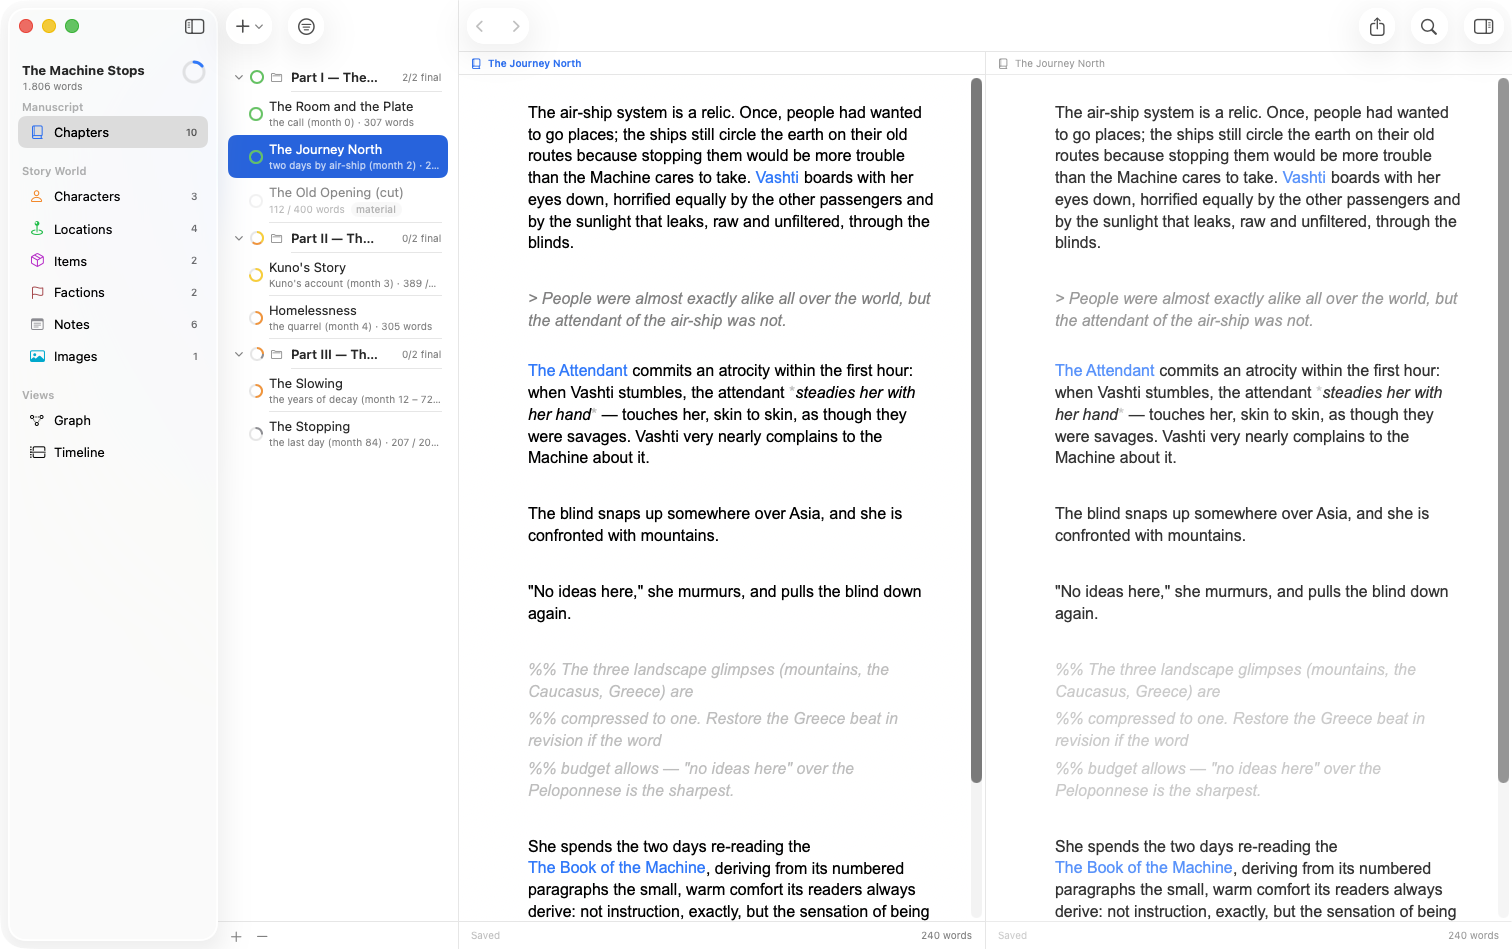
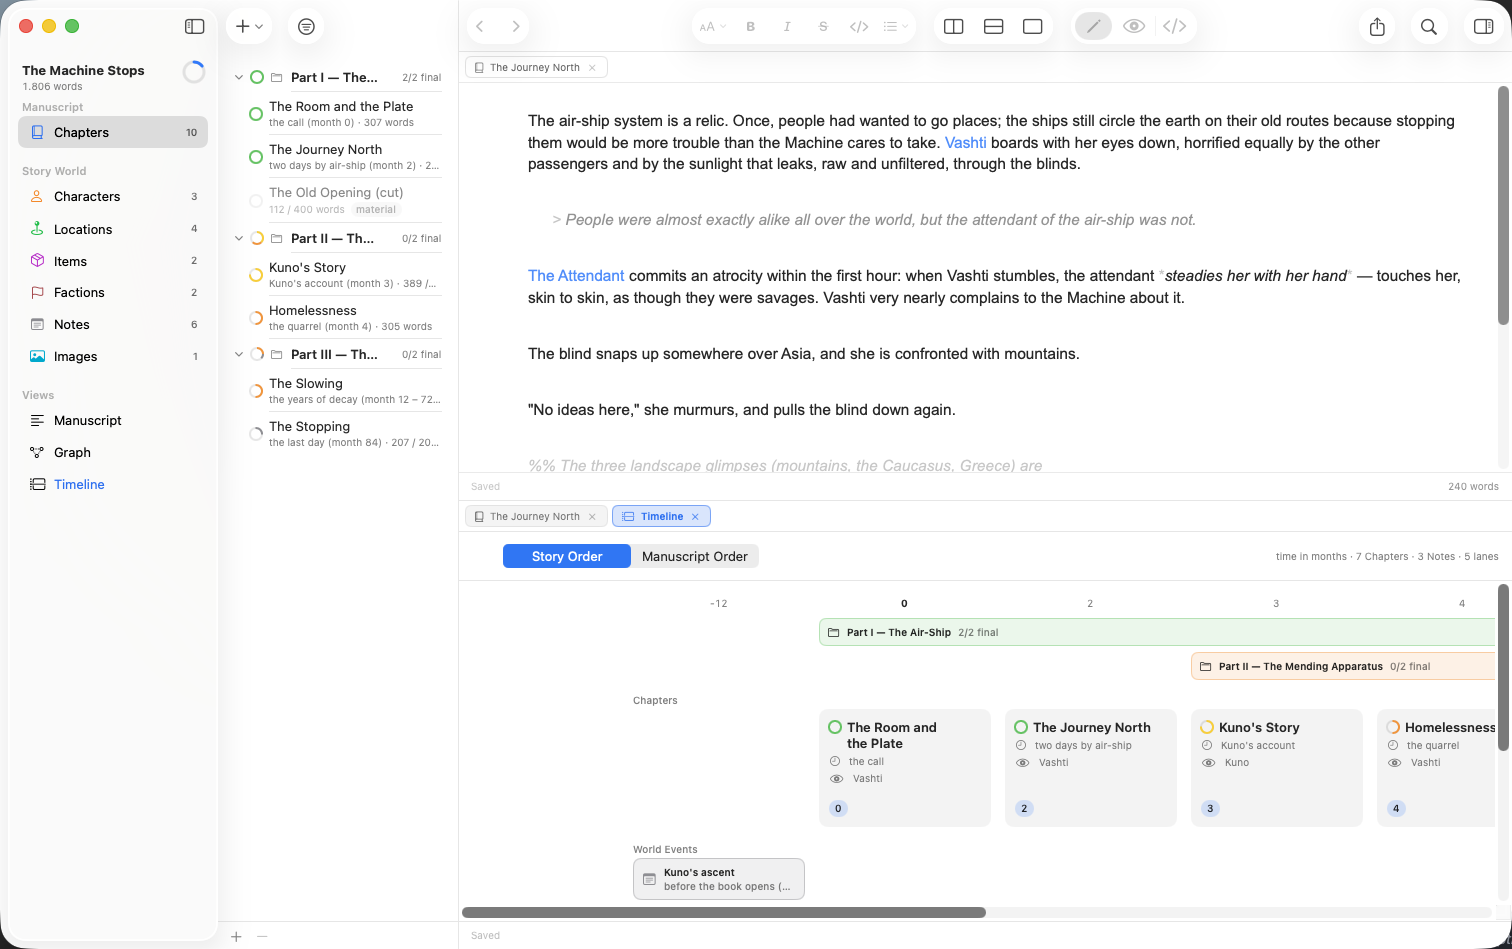
Document tabs, split panes, and view PDF export
Catches the docs up with the app: the split-view layout switcher is
gone, so "Three ways to lay out the editor" becomes "Tabs and split
editors" — provisional tabs, dragging tabs to reorder/move/split,
nesting splits, per-pane word count and view mode, the whole-book
views as tabs, and the remembered arrangement. The manuscript column
moves under it as a kind of tab rather than a layout.

Also documents the graph/timeline PDF export (a section in Exporting,
the graph's control row, the timeline's share button), adds the pane
and tab shortcuts, and drops ⌘⌥3 for the layout that no longer exists.

Screenshots: new editor-tabs, editor-tab-drag, and graph-controls;
editor-split recaptured for panes and tabs.

diff --git a/guide/editor.md b/guide/editor.md
@@ -1,6 +1,6 @@
 # The Editor
 
-The editor is where you write. It styles your text in place as you type — headings scale, emphasis renders, links show as names — while the file underneath stays plain text you could open anywhere. A slim title bar above the text always names the document you're in, and marks unsaved changes with a `*` after the name.
+The editor is where you write. It styles your text in place as you type — headings scale, emphasis renders, links show as names — while the file underneath stays plain text you could open anywhere. The tab above the text names the document you're in, and marks unsaved changes with a `*` after the name.
 
 <img src="/screenshots/editor-light.png" alt="The editor showing a chapter from the example book" class="light-only">
 <img src="/screenshots/editor-dark.png" alt="The editor showing a chapter from the example book" class="dark-only">
@@ -23,7 +23,7 @@ You don't have to type the marks. The **format buttons above the editor** style 
 
 ### Three views of your text
 
-The switcher in the toolbar shows which view you're in and flips between them: **live styling** (the pencil — where you write), a clean **reading preview** (the eye), and the **raw text** (the brackets). The view belongs to the editor you're working in, so with the [split editor](#split-editor) open you can read one document while writing in the other. Every launch starts in live styling.
+The switcher in the toolbar shows which view you're in and flips between them: **live styling** (the pencil — where you write), a clean **reading preview** (the eye), and the **raw text** (the brackets). The view belongs to the pane you're working in, so with the editor [split](#splitting) you can read one document while writing in the other. Every launch starts in live styling.
 
 ### Preview
 
@@ -63,7 +63,7 @@ Narrow the search to one kind by starting with its name and a colon: **`Characte
 
 The same field runs commands. Type `bold`, `heading`, `export`, `timeline` — anything you'd otherwise hunt for in a menu — and the matching action appears, with a note of which menu it also lives under. Which actions are offered depends on where you are: the formatting commands only show up when there's text to format.
 
-Away from the editor — in the [graph](/guide/graph) or the [timeline](/guide/timeline) — the same shortcut becomes a document jumper: type a name, press <kbd>Return</kbd>, and that document opens.
+With no text to insert into — in a [graph](/guide/graph) or [timeline](/guide/timeline) tab — the same shortcut becomes a document jumper: type a name, press <kbd>Return</kbd>, and that document opens.
 
 <kbd>Esc</kbd>, or a click outside, closes the field without doing anything.
 
@@ -95,24 +95,55 @@ All in the **View menu**:
 <img src="/screenshots/editor-focus-light.png" alt="Sentence focus: the sentence at the cursor is dark, everything else dimmed" class="light-only">
 <img src="/screenshots/editor-focus-dark.png" alt="Sentence focus: the sentence at the cursor is dark, everything else dimmed" class="dark-only">
 
-## Three ways to lay out the editor
+## Tabs and split editors
 
-The switcher in the toolbar — and the matching group in the **View menu** — offers three layouts. You're always in exactly one of them, and the switcher shows which:
+Documents open in **tabs**, and the editor area can be **split** into as many panes as you have room for — the same way a code editor works, but for chapters.
 
-- **Single editor** <kbd>⌘⌥1</kbd> — one document at a time. The everyday view.
-- **Split editor** <kbd>⌘⌥2</kbd> — two documents side by side.
-- **Continuous scroll** <kbd>⌘⌥3</kbd> — the whole manuscript as one flowing text.
+### Tabs
 
-### Split editor
+Click a document in the list and it opens as a tab in the editor. Click another and it *replaces* that tab rather than adding one: a tab you've only glanced at shows its name in italics, and browsing the list never leaves a trail of tabs behind. **Double-click** the row — or type in it, or use **Open in Tab** from its right-click menu — and the tab is yours and stays put.
 
-<img src="/screenshots/editor-split-light.png" alt="The split editor: two documents side by side" class="light-only">
-<img src="/screenshots/editor-split-dark.png" alt="The split editor: two documents side by side" class="dark-only">
+Each tab shows the document's icon, its name, an `*` while it has unsaved changes, and a close button. <kbd>⌘W</kbd> closes the one you're in; <kbd>⌘⇧]</kbd> and <kbd>⌘⇧[</kbd> step through them.
 
-Each pane shows its own document — write the chapter on the left while its outline or a research note sits on the right. The pane you're working in shows its title in the accent color, and the list column follows it. Leaving this layout closes the second pane.
+<img src="/screenshots/editor-tabs-light.png" alt="A pane's tabs: a chapter, the timeline, and an italic tab opened for a look" class="light-only">
+<img src="/screenshots/editor-tabs-dark.png" alt="A pane's tabs: a chapter, the timeline, and an italic tab opened for a look" class="dark-only">
 
-### Continuous scroll
+### Dragging tabs
 
-Your whole manuscript becomes one flowing view, in reading order. A labeled divider marks where each chapter begins, so the boundaries stay visible while the text reads as one piece — and everything stays editable right there. As you scroll, the chapter currently on screen is highlighted in the list; click a chapter in the list to jump the view to it.
+Tabs move by hand:
+
+- **Along the strip** to reorder them. A blue line shows where the tab will land.
+- **Onto another pane's strip**, or anywhere in another pane, to move it there.
+- **Onto the edge of a pane** — the outer quarter, top, bottom, left or right — to split that pane and drop the tab into the new half. The half that will open is highlighted while you hover, so you can see the layout before you commit to it.
+
+<img src="/screenshots/editor-tab-drag-light.png" alt="A tab dragged over the lower edge of a pane, with the bottom half highlighted" class="light-only">
+<img src="/screenshots/editor-tab-drag-dark.png" alt="A tab dragged over the lower edge of a pane, with the bottom half highlighted" class="dark-only">
+
+Dragging a tab always keeps it: a document you bothered to move somewhere is no longer provisional. Drag a pane's last tab away and the empty pane closes behind it.
+
+Documents can be dragged **in from the list**, too: drop one on a pane's tab bar and it opens there. (Dropped into the text instead, the same document becomes a link — the tab bar opens, the page mentions.)
+
+### Splitting
+
+**Editor → Split Right** <kbd>⌘⌥→</kbd> and **Split Down** <kbd>⌘⌥↓</kbd> divide the pane you're in; the toolbar has buttons for both. The new pane starts on the same document, so the usual next step is to open something else in it — or to leave it, and read the same chapter in two places at once. Dragging a tab to a pane's edge (above) does the same thing in one gesture.
+
+<img src="/screenshots/editor-split-light.png" alt="A chapter above the timeline, each in its own pane with its own tabs" class="light-only">
+<img src="/screenshots/editor-split-dark.png" alt="A chapter above the timeline, each in its own pane with its own tabs" class="dark-only">
+
+Splits nest: split right, then split the right half downward, and you have a chapter beside its outline above your notes. **Drag the separator** between two panes to change how they share the space. **Close Editor** <kbd>⌘⌥W</kbd> removes the pane you're in, and closing a pane's last tab does the same.
+
+Each pane carries its own **word count and saved state** in the bar along its bottom, and its own view mode — a reading preview on one side, live text on the other. The pane you're working in is the bright one; the others recede. Everything in the menu bar — formatting, saving, find — acts on that pane.
+
+### More than documents
+
+Tabs aren't only for chapters. The **Views** in the sidebar open as tabs too:
+
+- **Manuscript** — your whole manuscript as one flowing text, in reading order. A labeled divider marks where each chapter begins, so the boundaries stay visible while the text reads as one piece — and everything stays editable right there. As you scroll, the chapter on screen is highlighted in the list; click a chapter in the list to jump the view to it.
+- **Graph** and **Timeline** — the whole-book views, now openable *beside* a chapter instead of taking the window over. Write with the timeline underneath and watch the shape of the book as you go.
+
+### It's remembered
+
+Your panes and tabs are saved with the book. Close it, come back next week, and the same documents are open in the same arrangement.
 
 ## Adding documents from your Mac
 
@@ -124,7 +155,7 @@ Drop a `.md` or `.txt` file into the editor to bring it into the book. Writingal
 
 ## Saving
 
-You decide when your work goes to disk: **File → Save** <kbd>⌘S</kbd> saves the document you're in, **File → Save All** <kbd>⌥⌘S</kbd> saves everything at once. Until then, edits live safely in the app and are clearly marked — a `*` after the document's name in the title bar, *Edited* in the status bar, and a small dot next to changed documents in the lists (a category in the sidebar shows the dot when anything inside it has unsaved changes).
+You decide when your work goes to disk: **File → Save** <kbd>⌘S</kbd> saves the document you're in, **File → Save All** <kbd>⌥⌘S</kbd> saves everything at once. Until then, edits live safely in the app and are clearly marked — a `*` after the document's name in its tab, *Edited* in the pane's status bar, and a small dot next to changed documents in the lists (a category in the sidebar shows the dot when anything inside it has unsaved changes).
 
 If you quit or close the book while something is unsaved, Writingale asks whether to save it all, discard, or stay.
 

diff --git a/CLAUDE.md b/CLAUDE.md
@@ -82,7 +82,7 @@ Full-window:
 |---|---|---|
 | `welcome` | Welcome screen, no automation args | [what-is-writingale.md](guide/what-is-writingale.md), [quick-start.md](guide/quick-start.md) |
 | `editor` | "The Journey North" open | [editor.md](guide/editor.md), [quick-start.md](guide/quick-start.md) |
-| `editor-split` | Same, split layout (⌥⌘2 via System Events keystroke) | [editor.md](guide/editor.md) |
+| `editor-split` | "The Journey North" above a timeline tab, each pane with its own tab strip (⌘⌥↓, then Views → Timeline in the new pane) | [editor.md](guide/editor.md) |
 | `editor-hidden` | "The Journey North", Hide Interface toggled (⌘. via System Events keystroke) | [editor.md](guide/editor.md) |
 | `character` | "Vashti" with inspector open | [concepts.md](guide/concepts.md) |
 | `journey` | "Kuno" with inspector open, scrolled to bottom (30 ticks) | [journeys.md](guide/journeys.md) |
@@ -116,6 +116,9 @@ Crops (source composition → crop):
 | `annotate-menu` | "The Journey North"; drag-select a phrase on the "commits an atrocity" line (CGEvent drag ~+665+247 → +850+247 window-relative), right-click the selection, **full-screen** capture (the menu is its own window) → crop `640x270+500+118` window-relative | [annotations.md](guide/annotations.md) |
 | `split-here` | "The Journey North"; right-click in the editor body (CGEvent right-click, screen 1500,700 with the window at 976,268), **region** capture of the menu's app items → `370x160` at screen `1455,678` (the menu is its own window, so capture the screen region, not the app window) | [manuscript.md](guide/manuscript.md) |
 | `quick-insert` | "The Journey North"; ⌘K then type `vash` → region capture of the card, `580x162+468+141` window-relative | [editor.md](guide/editor.md) |
+| `editor-tabs` | "The Journey North" pinned, a timeline tab, and a provisional (italic) tab from a single list click → crop of the tab strip | [editor.md](guide/editor.md) |
+| `editor-tab-drag` | A tab dragged over the lower quarter of a pane, bottom half highlighted → crop of the editor area mid-drag | [editor.md](guide/editor.md) |
+| `graph-controls` | Graph tab, `-autoSection graph` → crop of the control row (chips, outlines, re-layout, reset, share) | [graph.md](guide/graph.md) |
 | `goal-popover` | Goal ring clicked (293,131 screen), Goal tab → region capture, crop `340x330+0+40` | [goals.md](guide/goals.md) |
 | `goal-history` | …then History tab clicked (326,181) → same crop. Needs a seeded `.writingale/stats.json` in the /tmp book copy or the tab shows all zeros. | [goals.md](guide/goals.md) |
 
@@ -129,23 +132,25 @@ timeline columns don't stack.
 
 ### Screenshot gaps
 
-- **All `editor*` full-window shots are stale (2026-07-31)**: the
-  window toolbar gained a format capsule (heading menu, bold, italic,
-  strikethrough, code, lists menu) left of the view-mode switcher.
-  Recapture `editor`, `editor-split`, and any crop whose band includes
-  the toolbar.
+- **The `editor` full-window shot is stale (2026-07-31, worse since
+  2026-08-03)**: the window toolbar gained a format capsule (heading
+  menu, bold, italic, strikethrough, code, lists menu) left of the
+  view-mode switcher, and the editor gained a tab strip in place of
+  the slim title bar. Recapture `editor` and any crop whose band
+  includes the toolbar. (`editor-split` was recaptured for panes and
+  tabs on 2026-08-03.)
 - **Format capsule close-up** ([editor.md](guide/editor.md) "Styling
   as you type"): a crop of the toolbar's format buttons.
 - **Drag-to-reference** ([editor.md](guide/editor.md) "Links"): a shot
   mid-drag — a character row dragged from the list over the editor
   with the insertion caret visible.
-- **Editor-layout switcher** ([editor.md](guide/editor.md) "Three ways
-  to lay out the editor"): a crop of the toolbar capsule showing the
-  three layouts with one selected. `-autoContinuous YES` opens the
-  continuous layout directly.
-- **Continuous scroll** (same section): a shot of the flowing column
-  with a labeled chapter divider mid-view, and the chapter in view
-  highlighted in the list.
+- **Split buttons in the toolbar** ([editor.md](guide/editor.md)
+  "Splitting"): a crop of the split-right/split-down buttons. The
+  layout switcher they replaced is gone, along with its shot.
+- **The Manuscript tab** ([editor.md](guide/editor.md) "More than
+  documents"): a shot of the flowing column with a labeled chapter
+  divider mid-view, and the chapter in view highlighted in the list.
+  `-autoContinuous YES` opens the manuscript tab directly.
 
 Pages with no screenshots that may not need one (simpler/textual
 content — use judgement, not a hard rule): `installation.md`,

diff --git a/guide/graph.md b/guide/graph.md
@@ -5,6 +5,8 @@ The graph is a living map of everything in your book and every connection betwee
 <img src="/screenshots/graph-light.png" alt="The graph view of the example book" class="light-only">
 <img src="/screenshots/graph-dark.png" alt="The graph view of the example book" class="dark-only">
 
+Open the graph from **Views** in the sidebar and it appears as a tab in the editor — put it in a [split](/guide/editor#splitting) and it sits beside the chapter you're writing.
+
 ## Reading the graph
 
 - **The spine** — chapters on the horizontal center line, left to right in reading order. A character whose connections all land on the right half of the spine doesn't appear until late in the book; you can see it without reading a page.
@@ -16,8 +18,13 @@ Clicking a dot shows its contents in the glance panel on the right — the same 
 
 ## Controls
 
+<img src="/screenshots/graph-controls-light.png" alt="The graph's control row: one chip per kind, then group outlines, re-layout, reset, and share" class="light-only">
+<img src="/screenshots/graph-controls-dark.png" alt="The graph's control row: one chip per kind, then group outlines, re-layout, reset, and share" class="dark-only">
+
 - The **chips** along the top toggle each kind on and off — hide notes to see the story's social web, or show only chapters to see pure structure.
+- The **folder button** turns the group outlines on and off.
 - **Re-layout** rearranges the map; **reset** restores pan and zoom.
+- The **share button** saves the graph as a PDF — the whole map fitted to one page, not just the part on screen. See [Exporting](/guide/export#exporting-the-graph-and-the-timeline).
 - Pan and zoom with the usual gestures.
 
 ## Keeping a kind off the map

diff --git a/guide/timeline.md b/guide/timeline.md
@@ -5,6 +5,8 @@ The timeline lays your story out against **story time**, counted in a unit you c
 <img src="/screenshots/timeline-light.png" alt="The timeline view of the example book" class="light-only">
 <img src="/screenshots/timeline-dark.png" alt="The timeline view of the example book" class="dark-only">
 
+Open the timeline from **Views** in the sidebar and it appears as a tab in the editor — put it in a [split](/guide/editor#splitting) and you can write with the shape of the book underneath you.
+
 ## What you're seeing
 
 - **Container bands** across the top — parts with their derived progress (`2/4 final`), spanning the time their chapters cover.
@@ -30,3 +32,7 @@ Cards can be dragged to reorder where the view allows it.
 ## Giving something a place in time
 
 Select the entity and fill in the inspector's **Story Time** section: **From** (required to appear on the timeline), an optional **To** for things that span time, a human-readable **Label** ("the last day"), and optionally a **Row** of its own. See [the inspector](/guide/inspector#story-time).
+
+## Saving the timeline
+
+The share button in the top-right corner writes the timeline to a **PDF** — every column, however far it scrolls off screen, on a single page in whichever order you're viewing. See [Exporting](/guide/export#exporting-the-graph-and-the-timeline).

diff --git a/reference/shortcuts.md b/reference/shortcuts.md
@@ -17,10 +17,19 @@
 | <kbd>⌘2</kbd> | Focus list |
 | <kbd>⌘3</kbd> | Focus editor |
 | <kbd>⌘4</kbd> | Show/Hide inspector (editor and timeline) |
-| <kbd>⌘⌥3</kbd> | Toggle second editor (split view) |
 | <kbd>⌘[</kbd> / <kbd>⌘]</kbd> | Navigation history back / forward |
 | <kbd>⌘.</kbd> | Hide interface (distraction-free) |
 | <kbd>⌘⇧R</kbd> | Raw Markdown mode |
+
+## Panes & tabs
+
+| Shortcut | Action |
+|---|---|
+| <kbd>⌘⌥→</kbd> | Split the editor right |
+| <kbd>⌘⌥↓</kbd> | Split the editor down |
+| <kbd>⌘⌥W</kbd> | Close the focused editor pane |
+| <kbd>⌘W</kbd> | Close the current tab |
+| <kbd>⌘⇧]</kbd> / <kbd>⌘⇧[</kbd> | Next / previous tab |
 
 ## Markup
 
@@ -41,4 +50,4 @@
 | `[[` | Reference autocomplete popup |
 | <kbd>⌘</kbd>-click | Follow reference / open annotation |
 
-Menus not listed here (View → Highlight, View → Fixed Scrolling, Book → Book Settings…, Book → Edit Entity Types…) have no default shortcut.
+Menus not listed here (View → Highlight, View → Fixed Scrolling, Book → Book Settings…, Book → Edit Entity Types…, Book → Export Graph/Timeline as PDF…) have no default shortcut.

diff --git a/guide/inspector.md b/guide/inspector.md
@@ -1,6 +1,6 @@
 # The Inspector
 
-The inspector (<kbd>⌘4</kbd>, or the toolbar button) is where the selected entity's **facts** live — everything about a chapter or character that isn't its prose. It's the same panel behind the editor, the graph's glance panel, and the timeline. It starts closed; open it when you need it, and it follows whichever pane is focused when the [split editor](/guide/editor#split-editor) is open.
+The inspector (<kbd>⌘4</kbd>, or the toolbar button) is where the selected entity's **facts** live — everything about a chapter or character that isn't its prose. It's the same panel behind the editor, the graph's glance panel, and the timeline. It starts closed; open it when you need it, and it follows whichever pane is focused when the editor is [split](/guide/editor#splitting).
 
 What the inspector shows depends on what's selected: a chapter offers completion and story time, a character offers relationships and a journey, your custom faction offers its own fields. Every screenshot below is a real close-up from the bundled example book, *The Machine Stops*.
 

diff --git a/guide/concepts.md b/guide/concepts.md
@@ -36,7 +36,7 @@ On disk, every mention records the entity's permanent ID, never its name. The ed
 <img src="/screenshots/character-light.png" alt="A character with relationships, traits, and items in the inspector" class="light-only">
 <img src="/screenshots/character-dark.png" alt="A character with relationships, traits, and items in the inspector" class="dark-only">
 
-- The **sidebar** groups the kinds into sections (Manuscript and Story World, by default) and lists the derived **views** (Graph, Timeline).
+- The **sidebar** groups the kinds into sections (Manuscript and Story World, by default) and lists the whole-book **views** (Manuscript, Graph, Timeline), which open as tabs in the editor.
 - The **list** shows everything of the selected kind — for manuscript kinds, as a nested tree with progress rings and word counts.
 - The **editor** shows the selected entity's text.
 - The **inspector** shows its facts: identity, status, goal, story time, relationships, fields, backlinks, journey. See [The Inspector](/guide/inspector).

diff --git a/index.md b/index.md
@@ -34,7 +34,7 @@ features:
     details: Writingale reads your structured data backwards — who appears where, when, and with whom — and draws the map, the timeline, and each character's journey for you.
   - icon: ✍
     title: A focused markdown editor
-    details: Live markdown styling, reference autocomplete, focus and typewriter modes, a split editor, and a distraction-free view.
+    details: Live markdown styling, reference autocomplete, focus and typewriter modes, tabs and split panes, and a distraction-free view.
   - icon: 📤
     title: One clean manuscript
     details: Export compiles the manuscript tree into a single clean markdown file, with references resolved to names and comments stripped.

diff --git a/guide/quick-start.md b/guide/quick-start.md
@@ -49,6 +49,6 @@ Press <kbd>⌘⇧E</kbd> (or **Book → Export Manuscript…**). The export shee
 ## Where to go next
 
 - [Books & Entities](/guide/concepts) — the mental model behind everything
-- [The Editor](/guide/editor) — markup, writing modes, and the split editor
+- [The Editor](/guide/editor) — markup, writing modes, and tabs and split panes
 - [Manuscript Structure](/guide/manuscript) — parts, chapters, scenes, and material
 - [Entity Types & Traits](/guide/entity-types) — make the app fit your book
